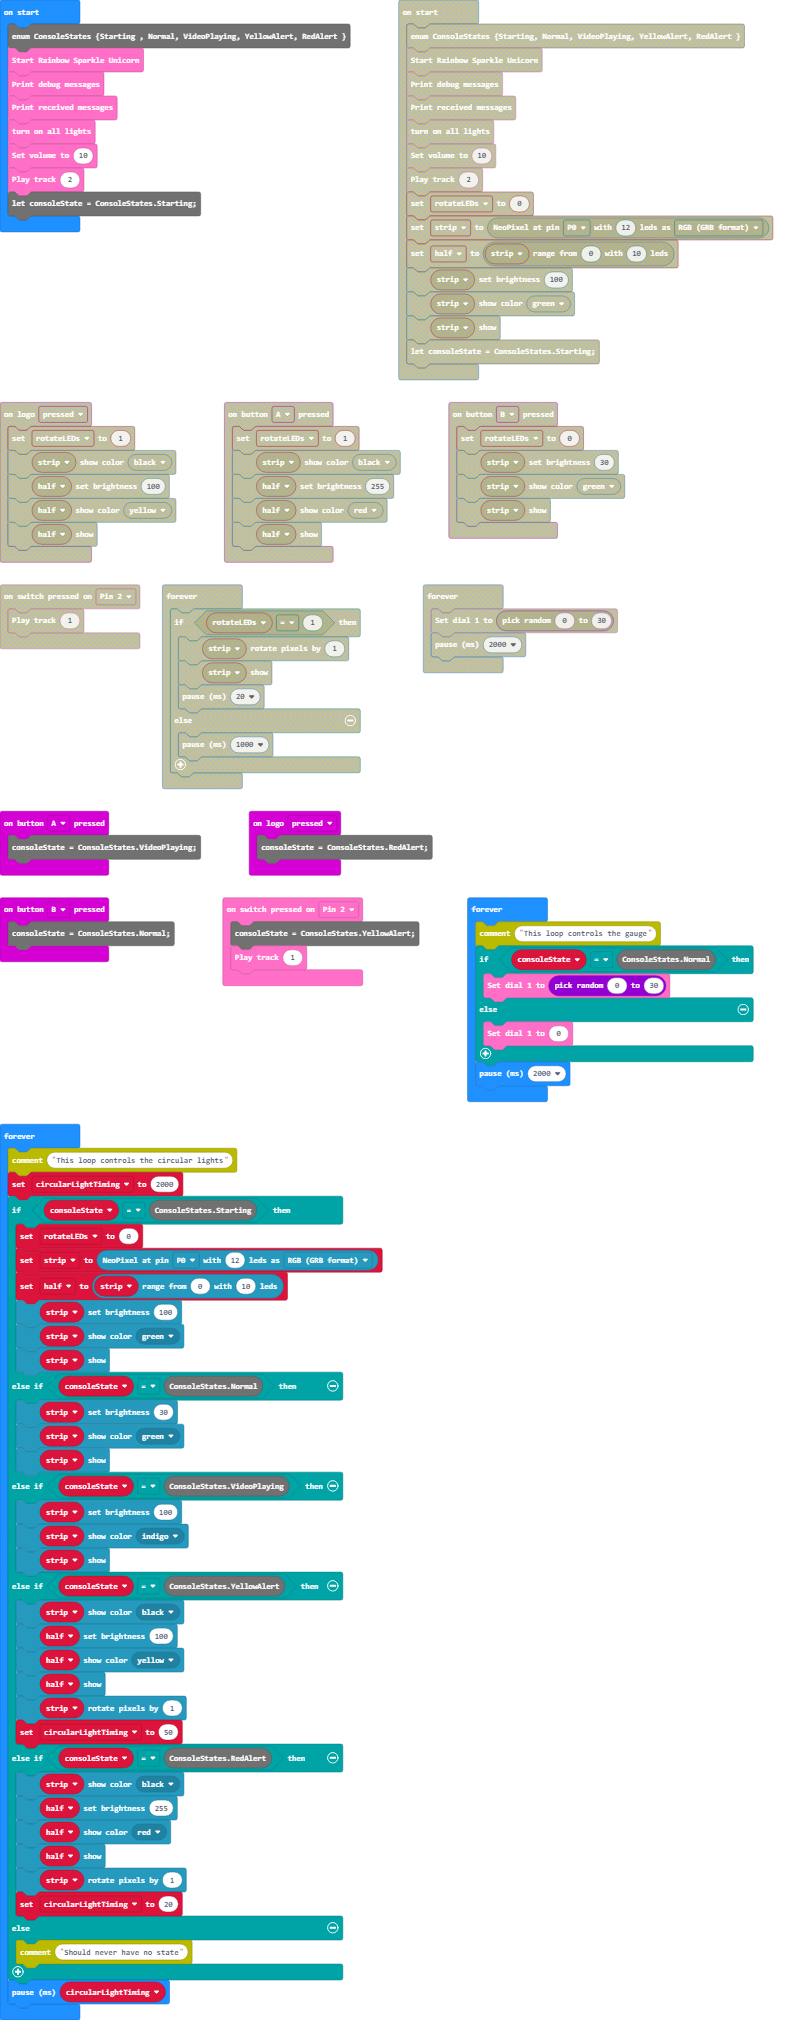
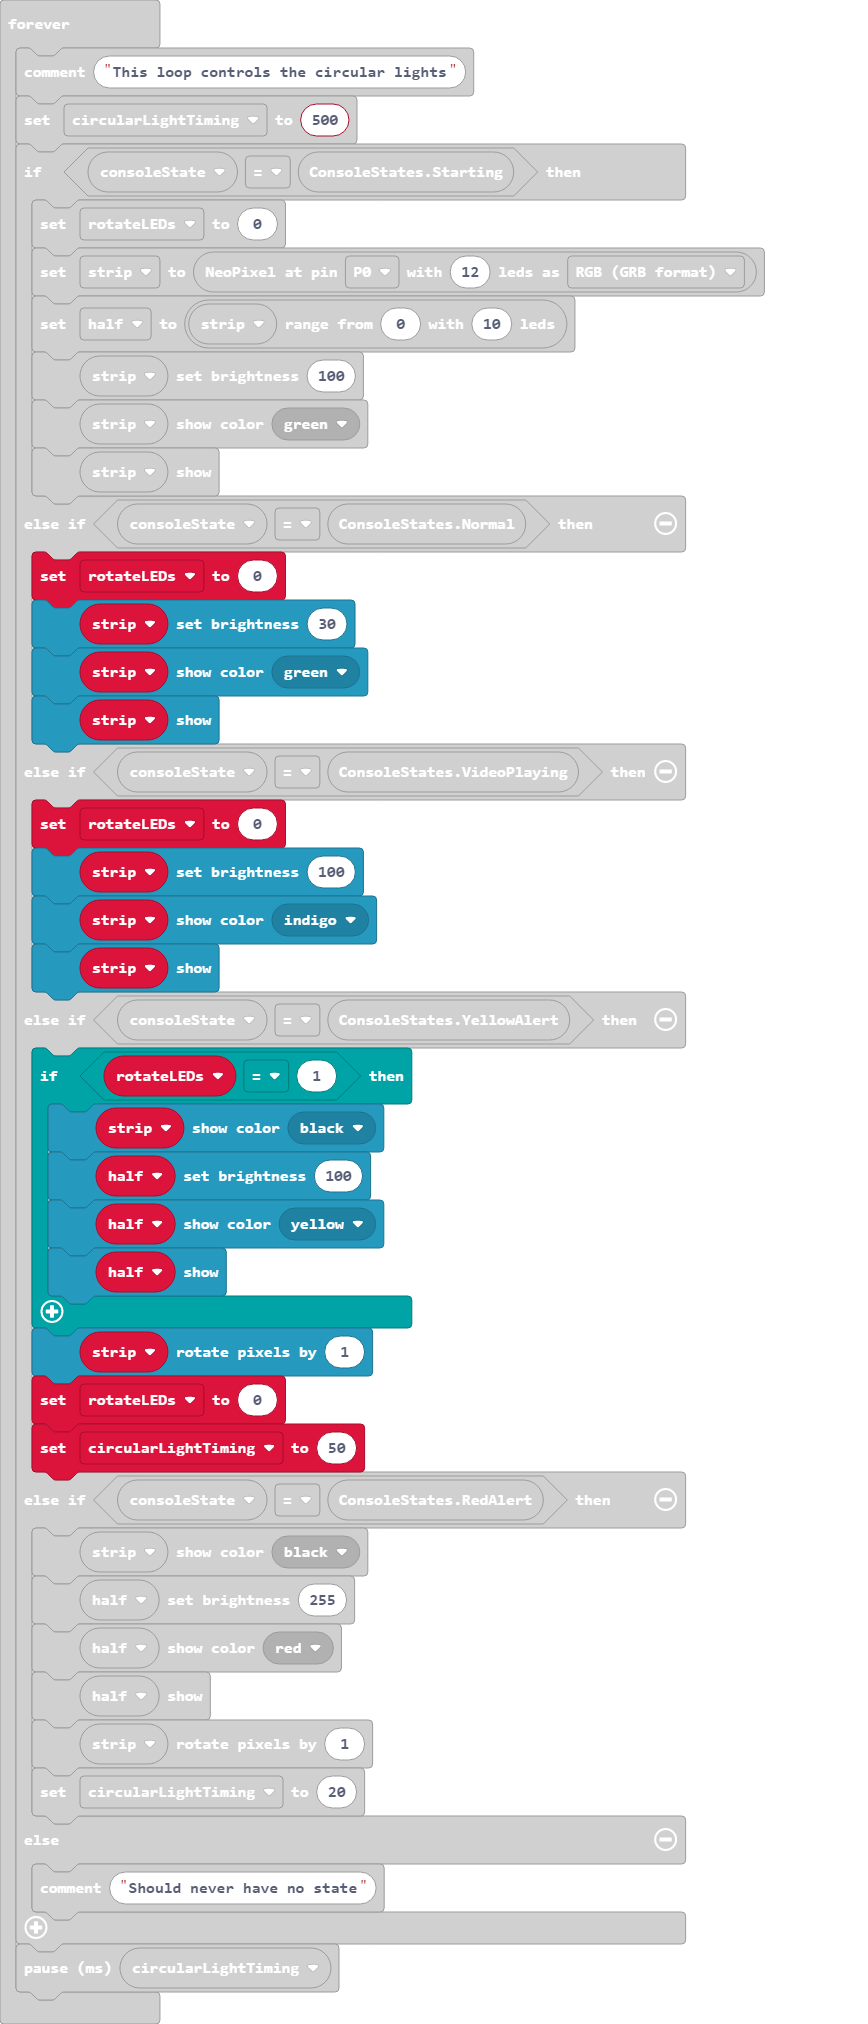
Update main.blocks, main.ts

diff --git a/main.ts b/main.ts
@@ -34,7 +34,7 @@ basic.forever(function () {
 })
 basic.forever(function () {
     comment.comment("This loop controls the circular lights")
-    circularLightTiming = 2000
+    circularLightTiming = 500
     if (consoleState == ConsoleStates.Starting) {
         rotateLEDs = 0
         strip = neopixel.create(DigitalPin.P0, 12, NeoPixelMode.RGB)
@@ -43,19 +43,24 @@ basic.forever(function () {
         strip.showColor(neopixel.colors(NeoPixelColors.Green))
         strip.show()
     } else if (consoleState == ConsoleStates.Normal) {
+        rotateLEDs = 0
         strip.setBrightness(30)
         strip.showColor(neopixel.colors(NeoPixelColors.Green))
         strip.show()
     } else if (consoleState == ConsoleStates.VideoPlaying) {
+        rotateLEDs = 0
         strip.setBrightness(100)
         strip.showColor(neopixel.colors(NeoPixelColors.Indigo))
         strip.show()
     } else if (consoleState == ConsoleStates.YellowAlert) {
-        strip.showColor(neopixel.colors(NeoPixelColors.Black))
-        half.setBrightness(100)
-        half.showColor(neopixel.colors(NeoPixelColors.Yellow))
-        half.show()
+        if (rotateLEDs == 1) {
+            strip.showColor(neopixel.colors(NeoPixelColors.Black))
+            half.setBrightness(100)
+            half.showColor(neopixel.colors(NeoPixelColors.Yellow))
+            half.show()
+        }
         strip.rotate(1)
+        rotateLEDs = 0
         circularLightTiming = 50
     } else if (consoleState == ConsoleStates.RedAlert) {
         strip.showColor(neopixel.colors(NeoPixelColors.Black))
